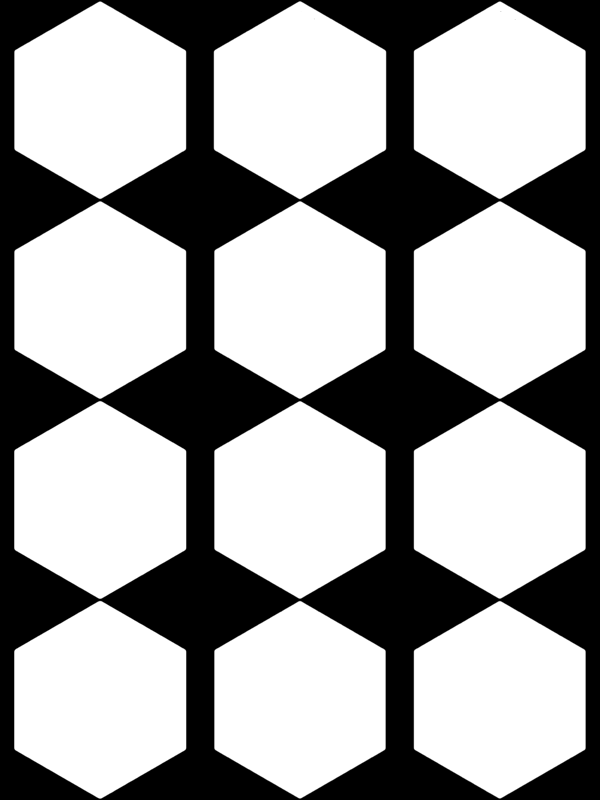
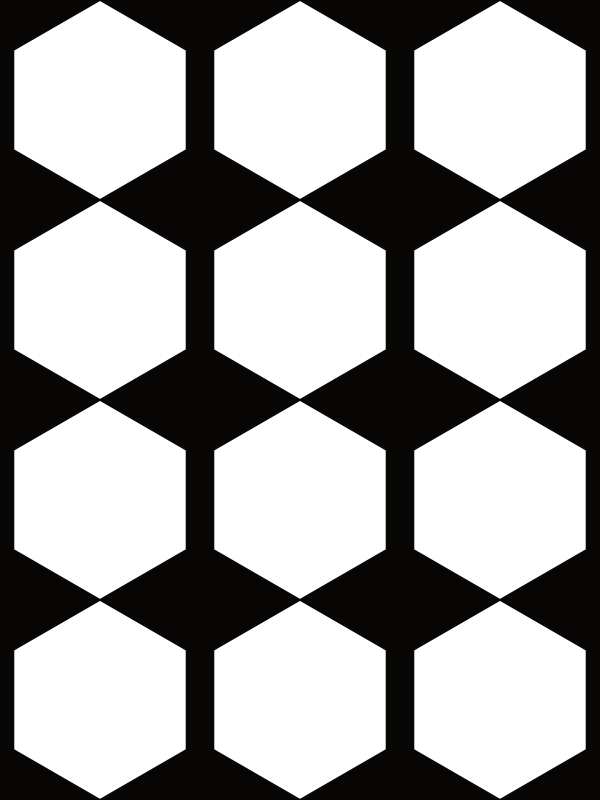
clean svg sprite

diff --git a/css/shortscore-rating.css b/css/shortscore-rating.css
@@ -3,10 +3,12 @@
 @media only screen and (-Webkit-min-device-pixel-ratio: 2), only screen and (min-resolution: 192dpi), only screen and (min-device-pixel-ratio: 2) {
     html .shortscore {
         background-image: url('../images/shortscore-mask@2x.png');
+        background-image: url('../images/shortscore-mask.svg'),linear-gradient(transparent, transparent);
     }
 
     html .single .type-game .shortscore {
         background-image: url('../images/shortscore-mask@4x.png');
+        background-image: url('../images/shortscore-mask.svg'),linear-gradient(transparent, transparent);
     }
 }
 
@@ -28,8 +30,12 @@
 
 .single .type-game .shortscore {
     background-repeat: no-repeat;
+    background-position: -400px -600px;
     background-size: 600px;
     background-image: url('../images/shortscore-mask@2x.png');
+    background-image: url('../images/shortscore-mask.svg'),linear-gradient(transparent, transparent);
+
+
     text-align: center;
     width: 200px;
     height: 200px;
@@ -47,93 +53,43 @@
     color: #fff;
 }
 
-.shortscore {
-    background-image: url('../images/shortscore-mask.png');
-    color: #fff;
-}
-
-.shortscore-0 {
-    background-position: 0 0;
-    color: #128C4D;
-}
-
-.shortscore-1 {
-    background-position: -100px 0;
-}
-
-.shortscore-2 {
+.single .type-game .shortscore-1 {
     background-position: -200px 0;
 }
 
-.shortscore-3 {
-    background-position: 0 -100px;
-}
-
-.shortscore-4 {
-    background-position: -100px -100px;
-}
-
-.shortscore-5 {
-    background-position: -200px -100px;
-}
-
-.shortscore-6 {
-    background-position: 0 -200px;
-}
-
-.shortscore-7 {
-    background-position: -100px -200px;
-}
-
-.shortscore-8 {
-    background-position: -200px -200px;
-}
-
-.shortscore-9 {
-    background-position: 0 -300px;
-}
-
-.shortscore-10 {
-    background-position: -100px -300px;
-}
-
-.single .type-game .shortscore-1{
-    background-position: -200px 0;
-}
-
-.single .type-game .shortscore-2{
+.single .type-game .shortscore-2 {
     background-position: -400px 0;
 }
 
-.single .type-game .shortscore-3{
+.single .type-game .shortscore-3 {
     background-position: 0 -200px;
 }
 
-.single .type-game .shortscore-4{
+.single .type-game .shortscore-4 {
     background-position: -200px -200px;
 }
 
-.single .type-game .shortscore-5{
+.single .type-game .shortscore-5 {
     background-position: -400px -200px;
 }
 
-.single .type-game .shortscore-6{
+.single .type-game .shortscore-6 {
     background-position: 0 -400px;
 }
 
-.single .type-game .shortscore-7{
+.single .type-game .shortscore-7 {
     background-position: -200px -400px;
 }
 
-.single .type-game .shortscore-8{
+.single .type-game .shortscore-8 {
     background-position: -400px -400px;
 }
 
-.single .type-game .shortscore-9{
+.single .type-game .shortscore-9 {
     background-position: 0 -600px;
 }
 
-.single .type-game .shortscore-10{
+.single .type-game .shortscore-10 {
     background-position: -200px -600px;
 }
 

diff --git a/js/jquery.shortscore.js b/js/jquery.shortscore.js
@@ -32,10 +32,10 @@ var animateShortcore = function() {
 
   jQuery.each(arr, function(index, value) {
     var predecessor = value - 1;
-    jQuery('#shortscore_value').delay(100).queue(function() {
+    jQuery('#shortscore_value').delay(400).queue(function() {
       jQuery('#shortscore_value').removeClass('shortscore-' + predecessor).addClass('shortscore-' + value).dequeue();
       if(value == arr.length){
-        shortscore.locked = false;
+        //shortscore.locked = false;
       }
     });
   });
